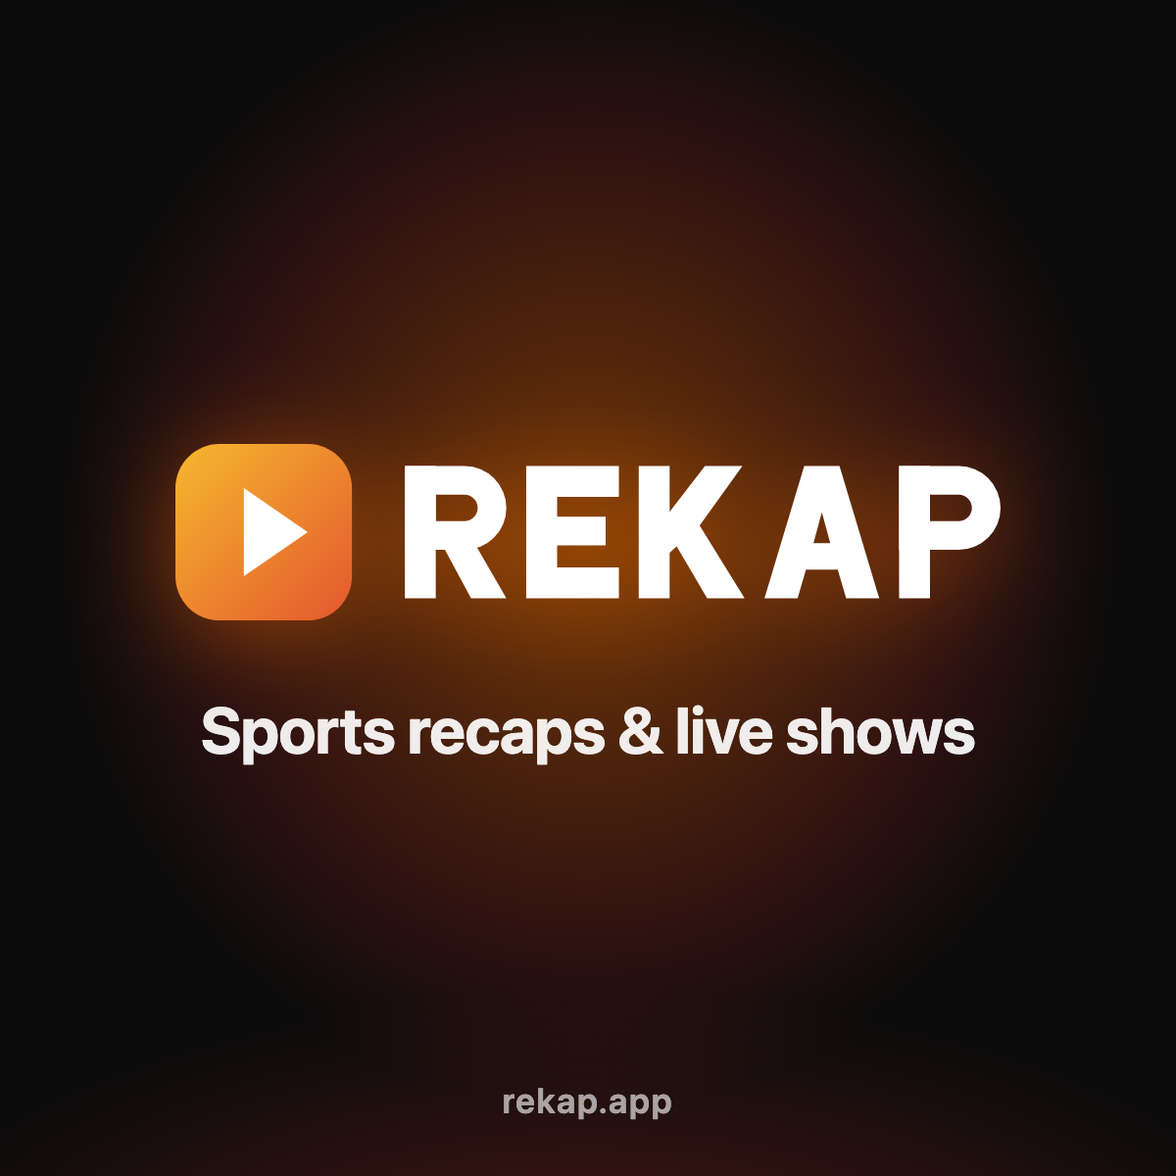
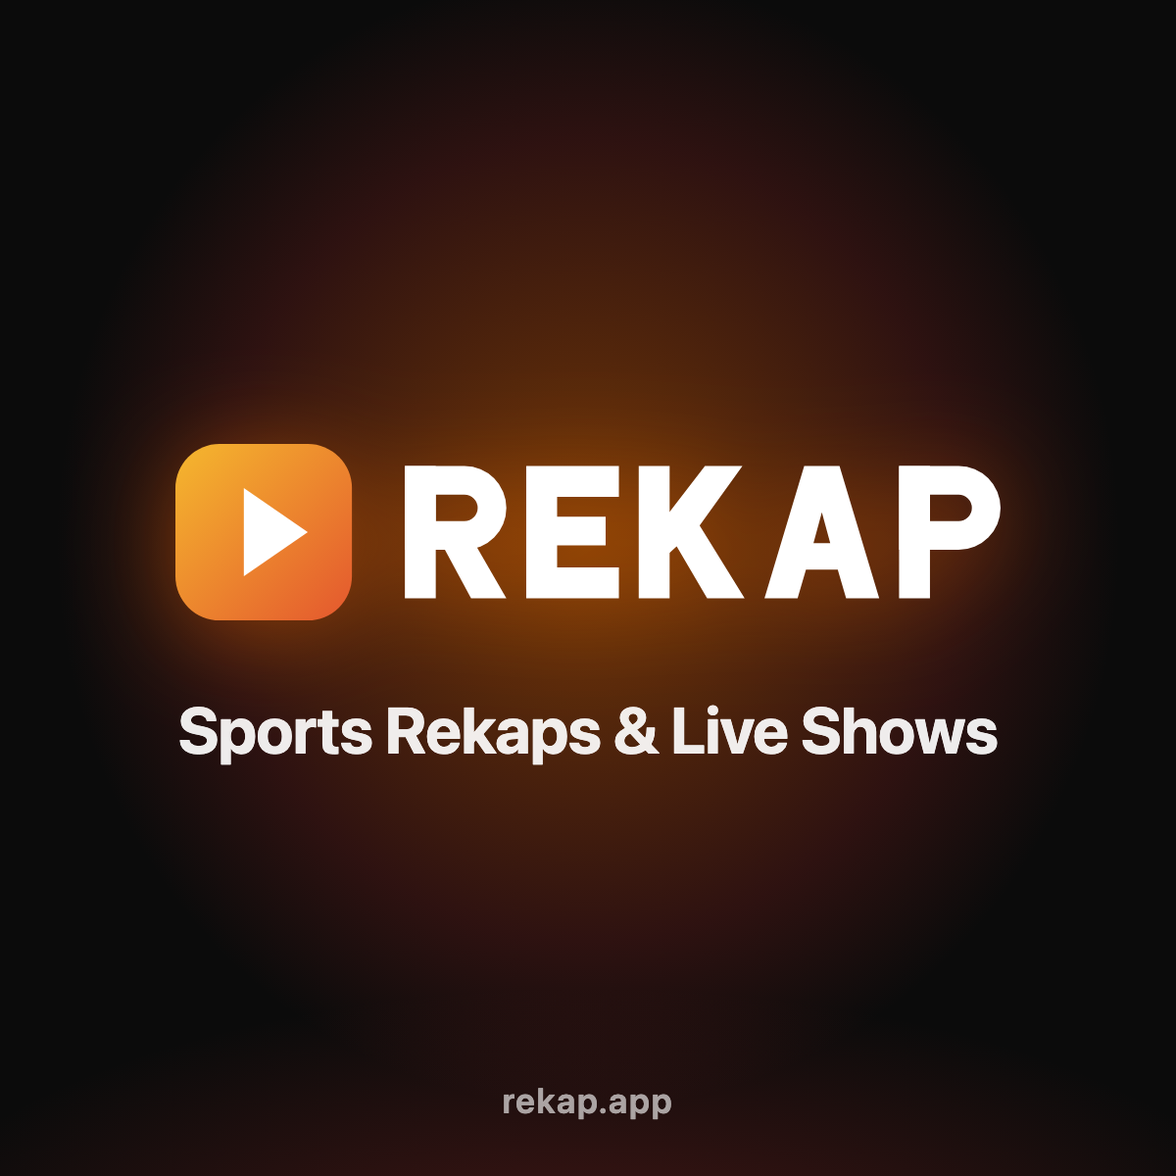
REKAP website: "Rekap" in running text; Rekaps replace takes/posts/recaps; new link-preview card (rendered from rekap 4f98d03)

Changed region(s): [[0.1542, 0.5858, 0.8633, 0.6475]]

diff --git a/index.html b/index.html
@@ -5,32 +5,32 @@
     <meta name="viewport" content="width=device-width, initial-scale=1, viewport-fit=cover">
     <meta name="theme-color" content="#0b0b0b">
     <meta name="color-scheme" content="dark">
-    <title>REKAP — Sports recaps &amp; live shows. Creators earn tips and Live ticket revenue.</title>
+    <title>Rekap — Sports Rekaps &amp; Live Shows. Creators earn tips and Live ticket revenue.</title>
     
-<meta name="rekap-build" content="a74757e251c8">
+<meta name="rekap-build" content="2c3ff8c8fca2">
 <link rel="icon" href="static/img/brand/favicon.svg" type="image/svg+xml">
 <link rel="icon" href="static/img/brand/favicon-32.png" type="image/png" sizes="32x32">
 <link rel="apple-touch-icon" href="static/img/brand/apple-touch-icon.png" sizes="180x180">
 <link rel="canonical" href="https://rekap.app/">
 <meta property="og:type" content="website">
-<meta property="og:site_name" content="REKAP">
+<meta property="og:site_name" content="Rekap">
 <meta property="og:url" content="https://rekap.app/">
-<meta property="og:title" content="REKAP">
-<meta property="og:description" content="Sports recaps &amp; live shows. Creators earn tips and Live ticket revenue.">
+<meta property="og:title" content="Rekap">
+<meta property="og:description" content="Sports Rekaps &amp; Live Shows. Creators earn tips and Live ticket revenue.">
 <meta property="og:image" content="https://rekap.app/static/img/brand/rekap-share-1200x630.png">
 <meta property="og:image:secure_url" content="https://rekap.app/static/img/brand/rekap-share-1200x630.png">
 <meta property="og:image:type" content="image/png">
 <meta property="og:image:width" content="1200">
 <meta property="og:image:height" content="630">
-<meta property="og:image:alt" content="REKAP — Sports recaps &amp; live shows">
+<meta property="og:image:alt" content="Rekap — Sports Rekaps &amp; Live Shows">
 
 <meta name="twitter:card" content="summary_large_image">
-<meta name="twitter:title" content="REKAP">
-<meta name="twitter:description" content="Sports recaps &amp; live shows. Creators earn tips and Live ticket revenue.">
+<meta name="twitter:title" content="Rekap">
+<meta name="twitter:description" content="Sports Rekaps &amp; Live Shows. Creators earn tips and Live ticket revenue.">
 <meta name="twitter:image" content="https://rekap.app/static/img/brand/rekap-share-1200x630.png">
-<meta name="twitter:image:alt" content="REKAP — Sports recaps &amp; live shows">
+<meta name="twitter:image:alt" content="Rekap — Sports Rekaps &amp; Live Shows">
 
-<meta name="description" content="Sports recaps &amp; live shows. Creators earn tips and Live ticket revenue.">
+<meta name="description" content="Sports Rekaps &amp; Live Shows. Creators earn tips and Live ticket revenue.">
 
     <link rel="stylesheet" href="static/css/rekap-pages.css">
     <link rel="preload" as="image" type="image/webp" fetchpriority="high" href="static/landing/hero-art-400.webp" imagesrcset="static/landing/hero-art-400.webp 400w, static/landing/hero-art-800.webp 800w" imagesizes="(min-width: 1000px) 460px, min(calc(100vw - 40px), 400px)">
@@ -58,10 +58,10 @@
 </defs></svg>
 
 <header class="pg-nav" id="top">
-    <a href="index.html" class="pg-nav-logo" aria-label="REKAP home"><img src="static/img/brand/rekap-logo.svg" alt="REKAP" width="112" height="28"></a>
+    <a href="index.html" class="pg-nav-logo" aria-label="Rekap home"><img src="static/img/brand/rekap-logo.svg" alt="REKAP" width="112" height="28"></a>
     <nav class="pg-nav-links" aria-label="Main">
         <a href="#how-it-works">How it works</a>
-        <a href="#rekap-live">REKAP Live</a>
+        <a href="#rekap-live">Rekap Live</a>
     </nav>
     <div class="pg-nav-auth">
         
@@ -72,7 +72,7 @@
     </div>
     <div class="pg-menu" id="menu" aria-label="Menu">
         <a href="#how-it-works">How it works</a>
-        <a href="#rekap-live">REKAP Live</a>
+        <a href="#rekap-live">Rekap Live</a>
         <a class="pg-menu-close" href="#menu-closed" aria-label="Close menu"><svg class="pg-ic" aria-hidden="true"><use href="#i-x"/></svg></a>
     </div>
 </header>
@@ -101,11 +101,11 @@
         <h2 id="pg-steps-title" class="pg-h2">Post. Grow. Get paid.</h2>
         <ol class="pg-grid pg-grid-3 pg-step-list">
             
-            <li class="pg-tile pg-step"><img src="static/landing/sports/clapper-board.webp" alt="" width="64" height="64" loading="lazy" decoding="async"><h3><span class="pg-step-n">1</span>Post your Rekaps</h3><p>Record a short sports video and share your take on the game.</p></li>
+            <li class="pg-tile pg-step"><img src="static/landing/sports/clapper-board.webp" alt="" width="64" height="64" loading="lazy" decoding="async"><h3><span class="pg-step-n">1</span>Post your Rekaps</h3><p>Record a short sports video and post a Rekap on the game.</p></li>
             
-            <li class="pg-tile pg-step"><img src="static/landing/sports/speech-balloon.webp" alt="" width="64" height="64" loading="lazy" decoding="async"><h3><span class="pg-step-n">2</span>Build your community</h3><p>Fans follow you, comment on your takes and come back for more.</p></li>
+            <li class="pg-tile pg-step"><img src="static/landing/sports/speech-balloon.webp" alt="" width="64" height="64" loading="lazy" decoding="async"><h3><span class="pg-step-n">2</span>Build your community</h3><p>Fans follow you, comment on your Rekaps and come back for more.</p></li>
             
-            <li class="pg-tile pg-step"><img src="static/landing/sports/money-bag.webp" alt="" width="64" height="64" loading="lazy" decoding="async"><h3><span class="pg-step-n">3</span>Get paid</h3><p>Earn tips on your posts and sell tickets to your REKAP Live shows, paid out via Stripe.</p></li>
+            <li class="pg-tile pg-step"><img src="static/landing/sports/money-bag.webp" alt="" width="64" height="64" loading="lazy" decoding="async"><h3><span class="pg-step-n">3</span>Get paid</h3><p>Earn tips on your Rekaps and sell tickets to your Rekap Live shows, paid out via Stripe.</p></li>
             
         </ol>
     </section>
@@ -121,9 +121,9 @@
                     <div class="pg-frame"><div class="pg-screen">
                         <div class="pg-status" aria-hidden="true"><span>9:41</span></div>
                         <img src="static/landing/screens/feed.webp" width="520" height="1125"
-                             loading="lazy" decoding="async" alt="The REKAP feed playing a sports take">
+                             loading="lazy" decoding="async" alt="The Rekap feed playing a sports Rekap">
                     </div></div>
-                    <figcaption>Swipe through sports takes</figcaption>
+                    <figcaption>Swipe through sports Rekaps</figcaption>
                 </figure>
             </li>
             
@@ -132,7 +132,7 @@
                     <div class="pg-frame"><div class="pg-screen">
                         <div class="pg-status" aria-hidden="true"><span>9:41</span></div>
                         <img src="static/landing/screens/live.webp" width="520" height="1125"
-                             loading="lazy" decoding="async" alt="The REKAP Live schedule with time slots to book">
+                             loading="lazy" decoding="async" alt="The Rekap Live schedule with time slots to book">
                     </div></div>
                     <figcaption>Book your live show</figcaption>
                 </figure>
@@ -143,7 +143,7 @@
                     <div class="pg-frame"><div class="pg-screen">
                         <div class="pg-status" aria-hidden="true"><span>9:41</span></div>
                         <img src="static/landing/screens/create.webp" width="520" height="1125"
-                             loading="lazy" decoding="async" alt="The REKAP screen for recording or uploading a take">
+                             loading="lazy" decoding="async" alt="The Rekap screen for recording or uploading a Rekap">
                     </div></div>
                     <figcaption>Record or upload in seconds</figcaption>
                 </figure>
@@ -154,9 +154,9 @@
                     <div class="pg-frame"><div class="pg-screen">
                         <div class="pg-status" aria-hidden="true"><span>9:41</span></div>
                         <img src="static/landing/screens/profile.webp" width="520" height="1125"
-                             loading="lazy" decoding="async" alt="A REKAP creator profile with a grid of takes">
+                             loading="lazy" decoding="async" alt="A Rekap creator profile with a grid of Rekaps">
                     </div></div>
-                    <figcaption>Your takes, one profile</figcaption>
+                    <figcaption>Your Rekaps, one profile</figcaption>
                 </figure>
             </li>
             
@@ -169,7 +169,7 @@
             <li><img src="static/landing/sports/american-football.webp" alt="Football" width="192" height="192" loading="lazy" decoding="async"></li><li><img src="static/landing/sports/basketball.webp" alt="Basketball" width="192" height="192" loading="lazy" decoding="async"></li><li><img src="static/landing/sports/baseball.webp" alt="Baseball" width="192" height="192" loading="lazy" decoding="async"></li><li><img src="static/landing/sports/soccer-ball.webp" alt="Soccer" width="192" height="192" loading="lazy" decoding="async"></li><li><img src="static/landing/sports/ice-hockey.webp" alt="Hockey" width="192" height="192" loading="lazy" decoding="async"></li>
         </ul>
         <h2 id="pg-every-title" class="pg-display"><span>Every game.</span> <span class="pg-grad">Every sport.</span></h2>
-        <p class="pg-rev-sub">Sports recaps and live shows, all in one place.</p>
+        <p class="pg-rev-sub">Sports Rekaps and live shows, all in one place.</p>
         <ul class="pg-emoji-row pg-emoji-row-2" aria-label="More sports">
             <li><img src="static/landing/sports/tennis.webp" alt="Tennis" width="192" height="192" loading="lazy" decoding="async"></li><li><img src="static/landing/sports/chequered-flag.webp" alt="Racing" width="192" height="192" loading="lazy" decoding="async"></li><li><img src="static/landing/sports/volleyball.webp" alt="Volleyball" width="192" height="192" loading="lazy" decoding="async"></li><li><img src="static/landing/sports/boxing-glove.webp" alt="Boxing" width="192" height="192" loading="lazy" decoding="async"></li><li><img src="static/landing/sports/cricket-game.webp" alt="Cricket" width="192" height="192" loading="lazy" decoding="async"></li>
         </ul>
@@ -180,9 +180,9 @@
         <h2 id="pg-how-title" class="pg-h2">Watch. Post. Go Live.</h2>
         <ul class="pg-grid pg-grid-3">
             
-            <li class="pg-tile"><span class="pg-ic-wrap"><svg class="pg-ic" aria-hidden="true"><use href="#i-circle-play"/></svg></span><h3>Watch</h3><p>Swipe through sports takes from fans and creators. One swipe up and the next take starts.</p></li>
+            <li class="pg-tile"><span class="pg-ic-wrap"><svg class="pg-ic" aria-hidden="true"><use href="#i-circle-play"/></svg></span><h3>Watch</h3><p>Swipe through sports Rekaps from fans and creators. One swipe up and the next Rekap starts.</p></li>
             
-            <li class="pg-tile"><span class="pg-ic-wrap"><svg class="pg-ic" aria-hidden="true"><use href="#i-video"/></svg></span><h3>Post</h3><p>Record or upload a take of up to three minutes. Pick the sport, add a caption, and it’s ready in seconds.</p></li>
+            <li class="pg-tile"><span class="pg-ic-wrap"><svg class="pg-ic" aria-hidden="true"><use href="#i-video"/></svg></span><h3>Post</h3><p>Record or upload a Rekap of up to three minutes. Pick the sport, add a caption, and it’s ready in seconds.</p></li>
             
             <li class="pg-tile"><span class="pg-ic-wrap"><svg class="pg-ic" aria-hidden="true"><use href="#i-radio"/></svg></span><h3>Go Live</h3><p>Book a slot, go live at your time, and fans who tapped Notify me get a message when you start.</p></li>
             
@@ -192,7 +192,7 @@
     <section class="pg-section" id="rekap-live" aria-labelledby="pg-live-title">
         <p class="pg-eyebrow"><span class="pg-live-dot" aria-hidden="true"></span>Live shows</p>
         <h2 id="pg-live-title" class="pg-h2">Your show. Your slot.</h2>
-        <p class="pg-lede">REKAP Live puts you on air with your fans. Book a time, go live from the Live tab, and talk the game in real time.</p>
+        <p class="pg-lede">Rekap Live puts you on air with your fans. Book a time, go live from the Live tab, and talk the game in real time.</p>
         <ul class="pg-grid pg-grid-3">
             
             <li class="pg-tile"><span class="pg-ic-wrap"><svg class="pg-ic" aria-hidden="true"><use href="#i-calendar-clock"/></svg></span><h3>Book a slot</h3><p>Pick a day and a time slot for your show.</p></li>
@@ -206,17 +206,17 @@
 
     <section class="pg-section" aria-labelledby="pg-creators-title">
         <p class="pg-eyebrow">For creators</p>
-        <h2 id="pg-creators-title" class="pg-h2">Build an audience with your takes.</h2>
-        <p class="pg-lede">Post short takes, host live shows, and grow a following that comes back for your next one.</p>
+        <h2 id="pg-creators-title" class="pg-h2">Build an audience with your Rekaps.</h2>
+        <p class="pg-lede">Post short Rekaps, host live shows, and grow a following that comes back for your next one.</p>
         <ul class="pg-grid">
             
-            <li class="pg-tile"><span class="pg-ic-wrap"><svg class="pg-ic" aria-hidden="true"><use href="#i-video"/></svg></span><h3>Short takes</h3><p>Up to three minutes: say what you saw, fast.</p></li>
+            <li class="pg-tile"><span class="pg-ic-wrap"><svg class="pg-ic" aria-hidden="true"><use href="#i-video"/></svg></span><h3>Short Rekaps</h3><p>Up to three minutes: say what you saw, fast.</p></li>
             
             <li class="pg-tile"><span class="pg-ic-wrap"><svg class="pg-ic" aria-hidden="true"><use href="#i-radio"/></svg></span><h3>Live shows</h3><p>Book a slot and talk sports with your audience in real time.</p></li>
             
-            <li class="pg-tile"><span class="pg-ic-wrap"><svg class="pg-ic" aria-hidden="true"><use href="#i-users-round"/></svg></span><h3>Followers</h3><p>Fans follow you and find your takes on your profile.</p></li>
+            <li class="pg-tile"><span class="pg-ic-wrap"><svg class="pg-ic" aria-hidden="true"><use href="#i-users-round"/></svg></span><h3>Followers</h3><p>Fans follow you and find your Rekaps on your profile.</p></li>
             
-            <li class="pg-tile"><span class="pg-ic-wrap"><svg class="pg-ic" aria-hidden="true"><use href="#i-send"/></svg></span><h3>Share links</h3><p>Send a REKAP in the Inbox, or share a link anyone can watch.</p></li>
+            <li class="pg-tile"><span class="pg-ic-wrap"><svg class="pg-ic" aria-hidden="true"><use href="#i-send"/></svg></span><h3>Share links</h3><p>Send a Rekap in the Inbox, or share a link anyone can watch.</p></li>
             
         </ul>
     </section>
@@ -226,7 +226,7 @@
         <h2 id="pg-safety-title" class="pg-h2">Built for fans, safe by design.</h2>
         <ul class="pg-grid pg-grid-3">
             
-            <li class="pg-tile"><span class="pg-ic-wrap"><svg class="pg-ic" aria-hidden="true"><use href="#i-flag"/></svg></span><h3>Report and block</h3><p>Report any REKAP in two taps and block anyone. We review reports and act within 24 hours where possible.</p></li>
+            <li class="pg-tile"><span class="pg-ic-wrap"><svg class="pg-ic" aria-hidden="true"><use href="#i-flag"/></svg></span><h3>Report and block</h3><p>Report any Rekap in two taps and block anyone. We review reports and act within 24 hours where possible.</p></li>
             
             <li class="pg-tile"><span class="pg-ic-wrap"><svg class="pg-ic" aria-hidden="true"><use href="#i-shield-check"/></svg></span><h3>13+ only</h3><p>Everyone confirms their birthdate when they sign up.</p></li>
             
@@ -245,16 +245,16 @@
     <p>There are no passwords. Enter your email address and we'll email you a 6-digit code. Type it in to sign in. The code works for 10 minutes and you get 5 tries. If you're new, you'll then pick a username and display name, enter your birthdate, and agree to our <a href="terms/index.html">Terms</a> and <a href="privacy/index.html">Privacy Policy</a>.</p>
   </details>
   <details>
-    <summary>How old do I have to be to use REKAP?</summary>
-    <p>You must be at least 13. If a birthdate under 13 is entered at sign-up, sign-up stops and the account that was just created, along with its email address, is deleted. Booking or hosting a REKAP Live show is for people 18 and older only. If your account was made before we asked for birthdays, we'll ask once the first time you try to use Live; if it shows you're under 13, the account is deleted.</p>
+    <summary>How old do I have to be to use Rekap?</summary>
+    <p>You must be at least 13. If a birthdate under 13 is entered at sign-up, sign-up stops and the account that was just created, along with its email address, is deleted. Booking or hosting a Rekap Live show is for people 18 and older only. If your account was made before we asked for birthdays, we'll ask once the first time you try to use Live; if it shows you're under 13, the account is deleted.</p>
   </details>
   <details>
-    <summary>How do I report a REKAP?</summary>
-    <p>On any REKAP that isn't yours, tap "…" then <strong>Report</strong>, and pick a reason: Spam, Harassment or bullying, Hate, Sexual content, Violence or dangerous acts, Copyright / I own this content, or Something else. We review reports, act within 24 hours where possible, and may remove content or suspend accounts.</p>
+    <summary>How do I report a Rekap?</summary>
+    <p>On any Rekap that isn't yours, tap "…" then <strong>Report</strong>, and pick a reason: Spam, Harassment or bullying, Hate, Sexual content, Violence or dangerous acts, Copyright / I own this content, or Something else. We review reports, act within 24 hours where possible, and may remove content or suspend accounts.</p>
   </details>
   <details>
     <summary>How do I delete my account?</summary>
-    <p>Go to <strong>Settings → Delete account</strong> and type to confirm. It takes effect immediately and signs you out everywhere: your REKAPs, comments, likes, follows, Live bookings and profile details (email, username, photo, birthdate and more) are deleted. Messages you already sent stay in the other person's Inbox, shown as "Deleted account" with no link to you, and the few records we must keep are listed in the <a href="privacy/index.html#retention">Privacy Policy</a>. Backups are cleared within 30 days.</p>
+    <p>Go to <strong>Settings → Delete account</strong> and type to confirm. It takes effect immediately and signs you out everywhere: your Rekaps, comments, likes, follows, Live bookings and profile details (email, username, photo, birthdate and more) are deleted. Messages you already sent stay in the other person's Inbox, shown as "Deleted account" with no link to you, and the few records we must keep are listed in the <a href="privacy/index.html#retention">Privacy Policy</a>. Backups are cleared within 30 days.</p>
   </details>
 
         </div>
@@ -263,7 +263,7 @@
 
     <section class="pg-final" id="download" aria-labelledby="pg-final-title">
         <img src="static/img/brand/rekap-mark.svg" alt="" width="72" height="72" loading="lazy">
-        <h2 id="pg-final-title">Your take belongs on REKAP.</h2>
+        <h2 id="pg-final-title">Your next Rekap starts here.</h2>
         <p class="pg-lede">Free on iPhone.</p>
         <div class="pg-cta-row"><a class="pg-badge" href="#app-store-soon" data-cta="app-store-final"><img src="static/img/badges/download-on-the-app-store.svg" alt="Download on the App Store" width="162" height="54"></a>
 <a class="pg-badge pg-badge-play" href="#play-store-soon" data-cta="play-store-final"><img src="static/img/badges/get-it-on-google-play.png" alt="Get it on Google Play" width="646" height="250"></a>

diff --git a/faq/index.html b/faq/index.html
@@ -7,7 +7,7 @@
     <meta name="color-scheme" content="dark">
     <title>FAQ · REKAP</title>
     
-<meta name="rekap-build" content="a74757e251c8">
+<meta name="rekap-build" content="2c3ff8c8fca2">
 <link rel="icon" href="../static/img/brand/favicon.svg" type="image/svg+xml">
 <link rel="icon" href="../static/img/brand/favicon-32.png" type="image/png" sizes="32x32">
 <link rel="apple-touch-icon" href="../static/img/brand/apple-touch-icon.png" sizes="180x180">
@@ -60,8 +60,8 @@
     <p>Check your spam or junk folder first, and make sure you typed your email address correctly. If it still isn't there, wait 30 seconds and tap to resend; a new code replaces the old one. If codes never arrive, email <a href="mailto:team@rekap.app">team@rekap.app</a>.</p>
   </details>
     <details>
-    <summary>How old do I have to be to use REKAP?</summary>
-    <p>You must be at least 13. If a birthdate under 13 is entered at sign-up, sign-up stops and the account that was just created, along with its email address, is deleted. Booking or hosting a REKAP Live show is for people 18 and older only. If your account was made before we asked for birthdays, we'll ask once the first time you try to use Live; if it shows you're under 13, the account is deleted.</p>
+    <summary>How old do I have to be to use Rekap?</summary>
+    <p>You must be at least 13. If a birthdate under 13 is entered at sign-up, sign-up stops and the account that was just created, along with its email address, is deleted. Booking or hosting a Rekap Live show is for people 18 and older only. If your account was made before we asked for birthdays, we'll ask once the first time you try to use Live; if it shows you're under 13, the account is deleted.</p>
   </details>
 
   <details>
@@ -70,7 +70,7 @@
   </details>
     <details>
     <summary>How do I delete my account?</summary>
-    <p>Go to <strong>Settings → Delete account</strong> and type to confirm. It takes effect immediately and signs you out everywhere: your REKAPs, comments, likes, follows, Live bookings and profile details (email, username, photo, birthdate and more) are deleted. Messages you already sent stay in the other person's Inbox, shown as "Deleted account" with no link to you, and the few records we must keep are listed in the <a href="../privacy/index.html#retention">Privacy Policy</a>. Backups are cleared within 30 days.</p>
+    <p>Go to <strong>Settings → Delete account</strong> and type to confirm. It takes effect immediately and signs you out everywhere: your Rekaps, comments, likes, follows, Live bookings and profile details (email, username, photo, birthdate and more) are deleted. Messages you already sent stay in the other person's Inbox, shown as "Deleted account" with no link to you, and the few records we must keep are listed in the <a href="../privacy/index.html#retention">Privacy Policy</a>. Backups are cleared within 30 days.</p>
   </details>
 
 </section>
@@ -78,8 +78,8 @@
 <section id="safety">
   <h2>Safety and reporting</h2>
     <details>
-    <summary>How do I report a REKAP?</summary>
-    <p>On any REKAP that isn't yours, tap "…" then <strong>Report</strong>, and pick a reason: Spam, Harassment or bullying, Hate, Sexual content, Violence or dangerous acts, Copyright / I own this content, or Something else. We review reports, act within 24 hours where possible, and may remove content or suspend accounts.</p>
+    <summary>How do I report a Rekap?</summary>
+    <p>On any Rekap that isn't yours, tap "…" then <strong>Report</strong>, and pick a reason: Spam, Harassment or bullying, Hate, Sexual content, Violence or dangerous acts, Copyright / I own this content, or Something else. We review reports, act within 24 hours where possible, and may remove content or suspend accounts.</p>
   </details>
 
   <details>

diff --git a/terms/index.html b/terms/index.html
@@ -7,7 +7,7 @@
     <meta name="color-scheme" content="dark">
     <title>Terms of Service · REKAP</title>
     
-<meta name="rekap-build" content="a74757e251c8">
+<meta name="rekap-build" content="2c3ff8c8fca2">
 <link rel="icon" href="../static/img/brand/favicon.svg" type="image/svg+xml">
 <link rel="icon" href="../static/img/brand/favicon-32.png" type="image/png" sizes="32x32">
 <link rel="apple-touch-icon" href="../static/img/brand/apple-touch-icon.png" sizes="180x180">

diff --git a/privacy/index.html b/privacy/index.html
@@ -7,7 +7,7 @@
     <meta name="color-scheme" content="dark">
     <title>Privacy Policy · REKAP</title>
     
-<meta name="rekap-build" content="a74757e251c8">
+<meta name="rekap-build" content="2c3ff8c8fca2">
 <link rel="icon" href="../static/img/brand/favicon.svg" type="image/svg+xml">
 <link rel="icon" href="../static/img/brand/favicon-32.png" type="image/png" sizes="32x32">
 <link rel="apple-touch-icon" href="../static/img/brand/apple-touch-icon.png" sizes="180x180">

diff --git a/support/index.html b/support/index.html
@@ -7,7 +7,7 @@
     <meta name="color-scheme" content="dark">
     <title>Support · REKAP</title>
     
-<meta name="rekap-build" content="a74757e251c8">
+<meta name="rekap-build" content="2c3ff8c8fca2">
 <link rel="icon" href="../static/img/brand/favicon.svg" type="image/svg+xml">
 <link rel="icon" href="../static/img/brand/favicon-32.png" type="image/png" sizes="32x32">
 <link rel="apple-touch-icon" href="../static/img/brand/apple-touch-icon.png" sizes="180x180">
